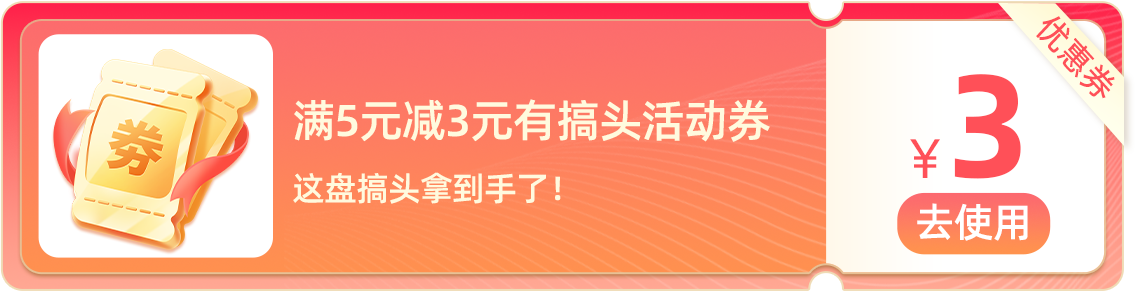
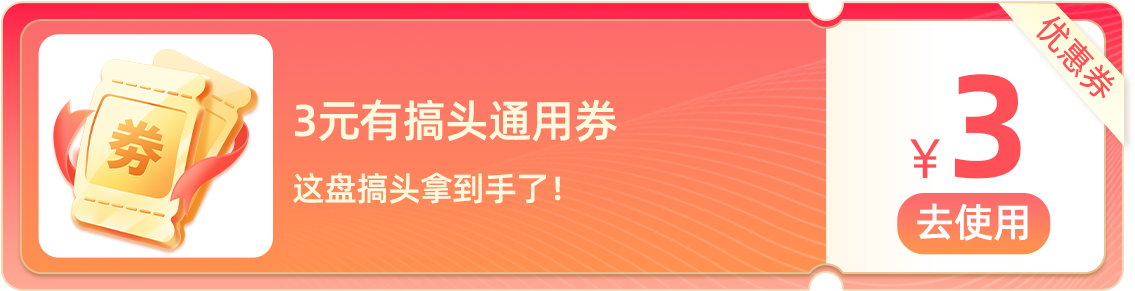
修改话费券

Changed region(s): [[0.2467, 0.3402, 0.6784, 0.4948]]

diff --git a/apps/you-gao-tou/src/views/common-data.ts b/apps/you-gao-tou/src/views/common-data.ts
@@ -16,11 +16,13 @@ export const ruleContent = `
 export const awardCoupons = [
   {
     aid: 'BB3A2838F50C8925D13783E15F731B14',
+    url: 'https://h5.bestpay.cn/subapps/txjfwap-h5/index.html#/?channel=fs_sc',
     src: '5yuan.png',
     name: '5元话费充值券',
   },
   {
     name: '一张3元通用券',
+    url: 'https://h5.bestpay.cn/subapps/mall-shopping-h5/index.html#/?channel=fs_sc',
     src: '3yuan.png',
     aid: '9A538B90C8C9AE624700986D4EBBB065',
   },

diff --git a/apps/you-gao-tou/src/composables/coupon-status.ts b/apps/you-gao-tou/src/composables/coupon-status.ts
@@ -101,7 +101,7 @@ export const getCouponsStatus = async (goodsCategories: Ref<GoodsCategories>) =>
         aid: item.aid,
         src: item.src as string,
         createTime: '',
-        url: 'https://h5.bestpay.cn/subapps/mall-shopping-h5/index.html#/?channel=fs_sc',
+        url: item.url as string,
         name: `${item.name}有搞头活动券`,
         arriveStatus: CouponArriveStatus.ARRIVE,
         resultOld: '',
